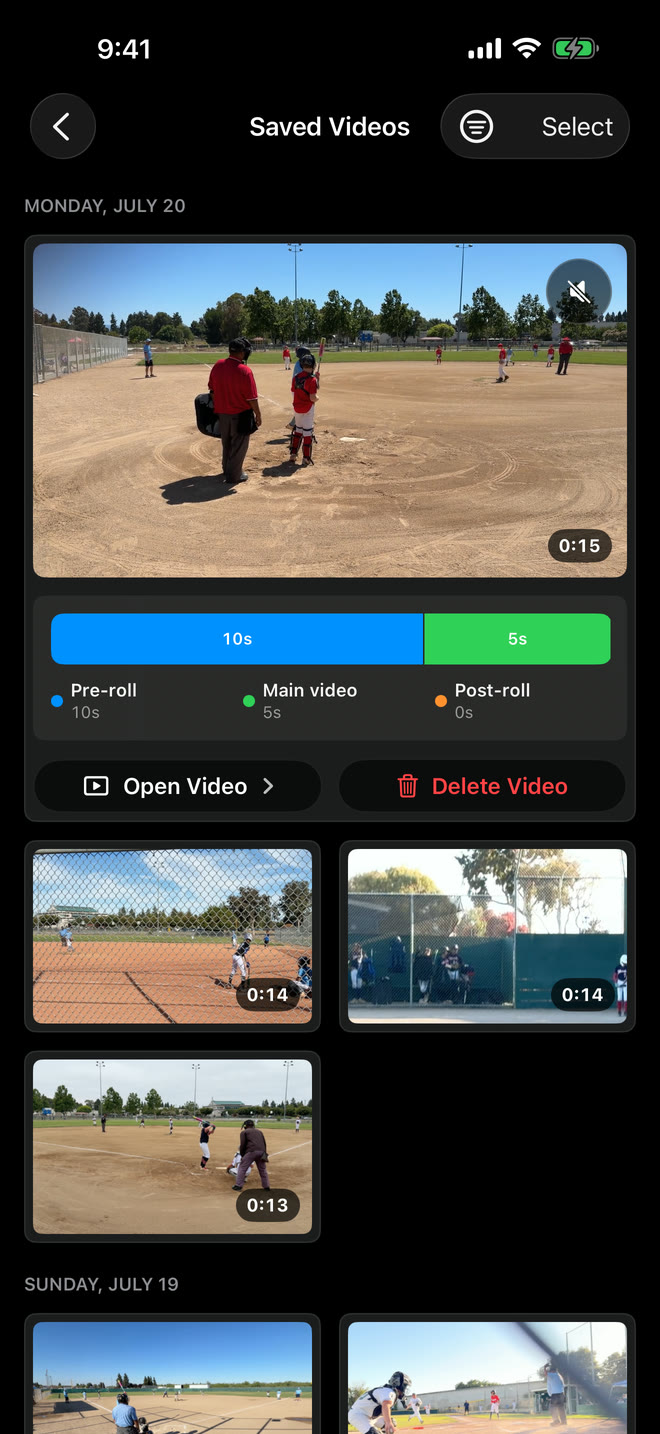
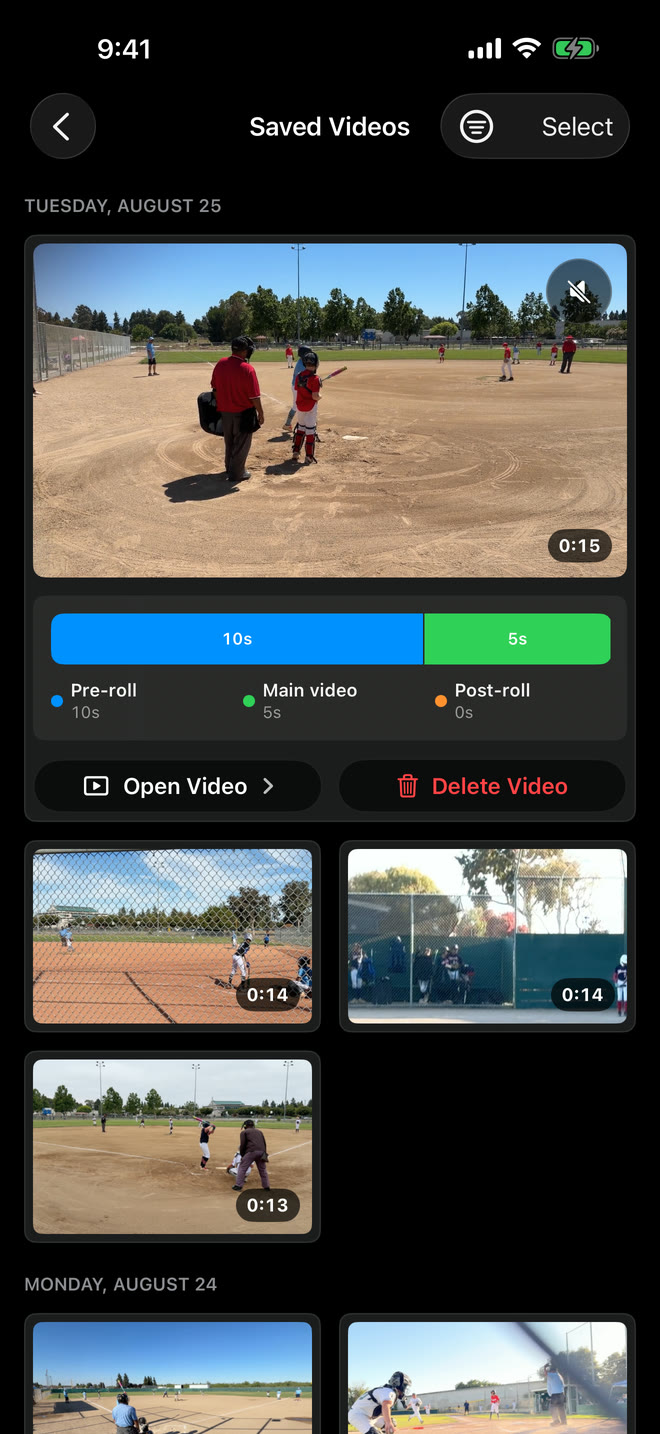
Publish Sideline Save pages

diff --git a/baseball-softball.html b/baseball-softball.html
@@ -4,12 +4,12 @@
   <meta charset="utf-8">
   <meta name="viewport" content="width=device-width, initial-scale=1">
   <meta name="description" content="Press record after the hit and keep the pitch and swing in your video. Capture baseball and softball highlights without recording every pitch.">
-  <link rel="canonical" href="https://chase-seibert.github.io/sideline-save-community/baseball-softball.html">
+  <link rel="canonical" href="https://sidelinesave.com/baseball-softball.html">
   <meta property="og:type" content="website">
   <meta property="og:title" content="Baseball &amp; Softball Video for Parents — Sideline Save">
   <meta property="og:description" content="Press record after the hit. Your video will still have the pitch and the swing.">
-  <meta property="og:url" content="https://chase-seibert.github.io/sideline-save-community/baseball-softball.html">
-  <meta property="og:image" content="https://chase-seibert.github.io/sideline-save-community/images/baseball-softball-hero-photo.jpg">
+  <meta property="og:url" content="https://sidelinesave.com/baseball-softball.html">
+  <meta property="og:image" content="https://sidelinesave.com/images/baseball-softball-hero-photo.jpg">
   <meta name="twitter:card" content="summary_large_image">
   <meta name="theme-color" content="#123d2d">
   <meta http-equiv="Content-Security-Policy" content="default-src 'none'; script-src 'unsafe-inline' https://www.googletagmanager.com; connect-src https://*.google-analytics.com https://*.analytics.google.com; img-src 'self' https://www.google-analytics.com; style-src 'unsafe-inline'; base-uri 'none'; form-action 'none'">

diff --git a/soccer.html b/soccer.html
@@ -4,12 +4,12 @@
   <meta charset="utf-8">
   <meta name="viewport" content="width=device-width, initial-scale=1">
   <meta name="description" content="Capture soccer goals, saves, and the pass that started the play without recording the whole game. Press record when the attack heads toward goal.">
-  <link rel="canonical" href="https://chase-seibert.github.io/sideline-save-community/soccer.html">
+  <link rel="canonical" href="https://sidelinesave.com/soccer.html">
   <meta property="og:type" content="website">
   <meta property="og:title" content="Soccer Video for Parents — Sideline Save">
   <meta property="og:description" content="Press record when the play heads toward goal. Your video will still have the pass that started it.">
-  <meta property="og:url" content="https://chase-seibert.github.io/sideline-save-community/soccer.html">
-  <meta property="og:image" content="https://chase-seibert.github.io/sideline-save-community/images/soccer-sideline.jpg">
+  <meta property="og:url" content="https://sidelinesave.com/soccer.html">
+  <meta property="og:image" content="https://sidelinesave.com/images/soccer-sideline.jpg">
   <meta name="twitter:card" content="summary_large_image">
   <meta name="theme-color" content="#123d2d">
   <meta http-equiv="Content-Security-Policy" content="default-src 'none'; script-src 'unsafe-inline' https://www.googletagmanager.com; connect-src https://*.google-analytics.com https://*.analytics.google.com; img-src 'self' https://www.google-analytics.com; style-src 'unsafe-inline'; base-uri 'none'; form-action 'none'">

diff --git a/blog/tips-for-taking-video-of-a-little-league-baseball-game.html b/blog/tips-for-taking-video-of-a-little-league-baseball-game.html
@@ -4,12 +4,12 @@
   <meta charset="utf-8">
   <meta name="viewport" content="width=device-width, initial-scale=1">
   <meta name="description" content="Practical phone-video tips for parents filming their own player at a Little League baseball game.">
-  <link rel="canonical" href="https://chase-seibert.github.io/sideline-save-community/blog/tips-for-taking-video-of-a-little-league-baseball-game.html">
+  <link rel="canonical" href="https://sidelinesave.com/blog/tips-for-taking-video-of-a-little-league-baseball-game.html">
   <meta property="og:type" content="article">
   <meta property="og:title" content="Tips for Taking Video of a Little League Baseball Game - Sideline Save">
   <meta property="og:description" content="Practical phone-video tips for parents filming their own player at a Little League baseball game.">
-  <meta property="og:url" content="https://chase-seibert.github.io/sideline-save-community/blog/tips-for-taking-video-of-a-little-league-baseball-game.html">
-  <meta property="og:image" content="https://chase-seibert.github.io/sideline-save-community/images/baseball-softball-hero-photo.jpg">
+  <meta property="og:url" content="https://sidelinesave.com/blog/tips-for-taking-video-of-a-little-league-baseball-game.html">
+  <meta property="og:image" content="https://sidelinesave.com/images/baseball-softball-hero-photo.jpg">
   <meta property="article:published_time" content="2026-07-18">
   <meta property="article:modified_time" content="2026-07-18">
   <meta name="theme-color" content="#123d2d">

diff --git a/blog/index.html b/blog/index.html
@@ -4,11 +4,11 @@
   <meta charset="utf-8">
   <meta name="viewport" content="width=device-width, initial-scale=1">
   <meta name="description" content="Sideline Save blog posts with practical youth sports video tips for parents and families.">
-  <link rel="canonical" href="https://chase-seibert.github.io/sideline-save-community/blog/">
+  <link rel="canonical" href="https://sidelinesave.com/blog/">
   <meta property="og:type" content="website">
   <meta property="og:title" content="Blog - Sideline Save">
   <meta property="og:description" content="Practical youth sports video tips for parents and families using Sideline Save.">
-  <meta property="og:url" content="https://chase-seibert.github.io/sideline-save-community/blog/">
+  <meta property="og:url" content="https://sidelinesave.com/blog/">
   <meta name="theme-color" content="#123d2d">
   <meta http-equiv="Content-Security-Policy" content="default-src 'none'; script-src 'unsafe-inline' https://www.googletagmanager.com; connect-src https://*.google-analytics.com https://*.analytics.google.com; img-src 'self' https://www.google-analytics.com; style-src 'unsafe-inline'; base-uri 'none'; form-action 'none'">
   <!-- Google tag (gtag.js) -->

diff --git a/about.html b/about.html
@@ -4,7 +4,7 @@
   <meta charset="utf-8">
   <meta name="viewport" content="width=device-width, initial-scale=1">
   <meta name="description" content="Stop recording every youth sports play just in case. Press record when a play becomes worth saving and keep the beginning of the play in your video.">
-  <link rel="canonical" href="https://chase-seibert.github.io/sideline-save-community/">
+  <link rel="canonical" href="https://sidelinesave.com/">
   <meta name="theme-color" content="#123d2d">
   <meta http-equiv="Content-Security-Policy" content="default-src 'none'; script-src 'unsafe-inline' https://www.googletagmanager.com; connect-src https://*.google-analytics.com https://*.analytics.google.com; img-src 'self' https://www.google-analytics.com; style-src 'unsafe-inline'; base-uri 'none'; form-action 'none'">
   <!-- Google tag (gtag.js) -->

diff --git a/index.html b/index.html
@@ -4,7 +4,7 @@
   <meta charset="utf-8">
   <meta name="viewport" content="width=device-width, initial-scale=1">
   <meta name="description" content="Stop recording every youth sports play just in case. Press record when a play becomes worth saving and keep the beginning of the play in your video.">
-  <link rel="canonical" href="https://chase-seibert.github.io/sideline-save-community/">
+  <link rel="canonical" href="https://sidelinesave.com/">
   <meta name="theme-color" content="#123d2d">
   <meta http-equiv="Content-Security-Policy" content="default-src 'none'; script-src 'unsafe-inline' https://www.googletagmanager.com; connect-src https://*.google-analytics.com https://*.analytics.google.com; img-src 'self' https://www.google-analytics.com; style-src 'unsafe-inline'; base-uri 'none'; form-action 'none'">
   <!-- Google tag (gtag.js) -->

diff --git a/README.md b/README.md
@@ -13,13 +13,13 @@ beginning of the play—without recording the whole game.
 
 [Download Sideline Save](https://apps.apple.com/us/app/sideline-save/id6790879656)
 
-[About](https://chase-seibert.github.io/sideline-save-community/) ·
-[Blog](https://chase-seibert.github.io/sideline-save-community/blog/) ·
-[Baseball + Softball](https://chase-seibert.github.io/sideline-save-community/baseball-softball.html) ·
-[Soccer](https://chase-seibert.github.io/sideline-save-community/soccer.html) ·
-[Support](https://chase-seibert.github.io/sideline-save-community/support.html) ·
-[Privacy](https://chase-seibert.github.io/sideline-save-community/privacy-policy.html) ·
-[Equipment](https://chase-seibert.github.io/sideline-save-community/recommended-gimbals.html)
+[About](https://sidelinesave.com/) ·
+[Blog](https://sidelinesave.com/blog/) ·
+[Baseball + Softball](https://sidelinesave.com/baseball-softball.html) ·
+[Soccer](https://sidelinesave.com/soccer.html) ·
+[Support](https://sidelinesave.com/support.html) ·
+[Privacy](https://sidelinesave.com/privacy-policy.html) ·
+[Equipment](https://sidelinesave.com/recommended-gimbals.html)
 
 ## One moment, three steps
 
@@ -58,14 +58,14 @@ more of the context that matters, and spend less time cleaning up afterward.
 
 Press record after the hit. Your video will still have the pitch and the swing.
 
-[See Sideline Save for baseball and softball](https://chase-seibert.github.io/sideline-save-community/baseball-softball.html)
+[See Sideline Save for baseball and softball](https://sidelinesave.com/baseball-softball.html)
 
 ### Soccer
 
 Press record when the play heads toward goal. Your video will still have the
 pass that started it.
 
-[See Sideline Save for soccer](https://chase-seibert.github.io/sideline-save-community/soccer.html)
+[See Sideline Save for soccer](https://sidelinesave.com/soccer.html)
 
 ## Here’s how it works
 
@@ -109,7 +109,7 @@ Video and audio remain on your iPhone and in your Photos library. Sideline Save
 has no accounts, ads, or cross-app tracking, and collects only limited app and
 website usage information to improve the product.
 
-[Read the Privacy Policy](https://chase-seibert.github.io/sideline-save-community/privacy-policy.html)
+[Read the Privacy Policy](https://sidelinesave.com/privacy-policy.html)
 
 ## Independent and personal
 
@@ -119,6 +119,6 @@ Sideline Save is developed for iPhone with a simple goal: make it easier for
 families to catch the moments they will want to replay. Questions, ideas, and
 honest feedback are welcome.
 
-[Visit Sideline Save Support](https://chase-seibert.github.io/sideline-save-community/support.html)
+[Visit Sideline Save Support](https://sidelinesave.com/support.html)
 
 © 2026 Chase Seibert. Sideline Save.
